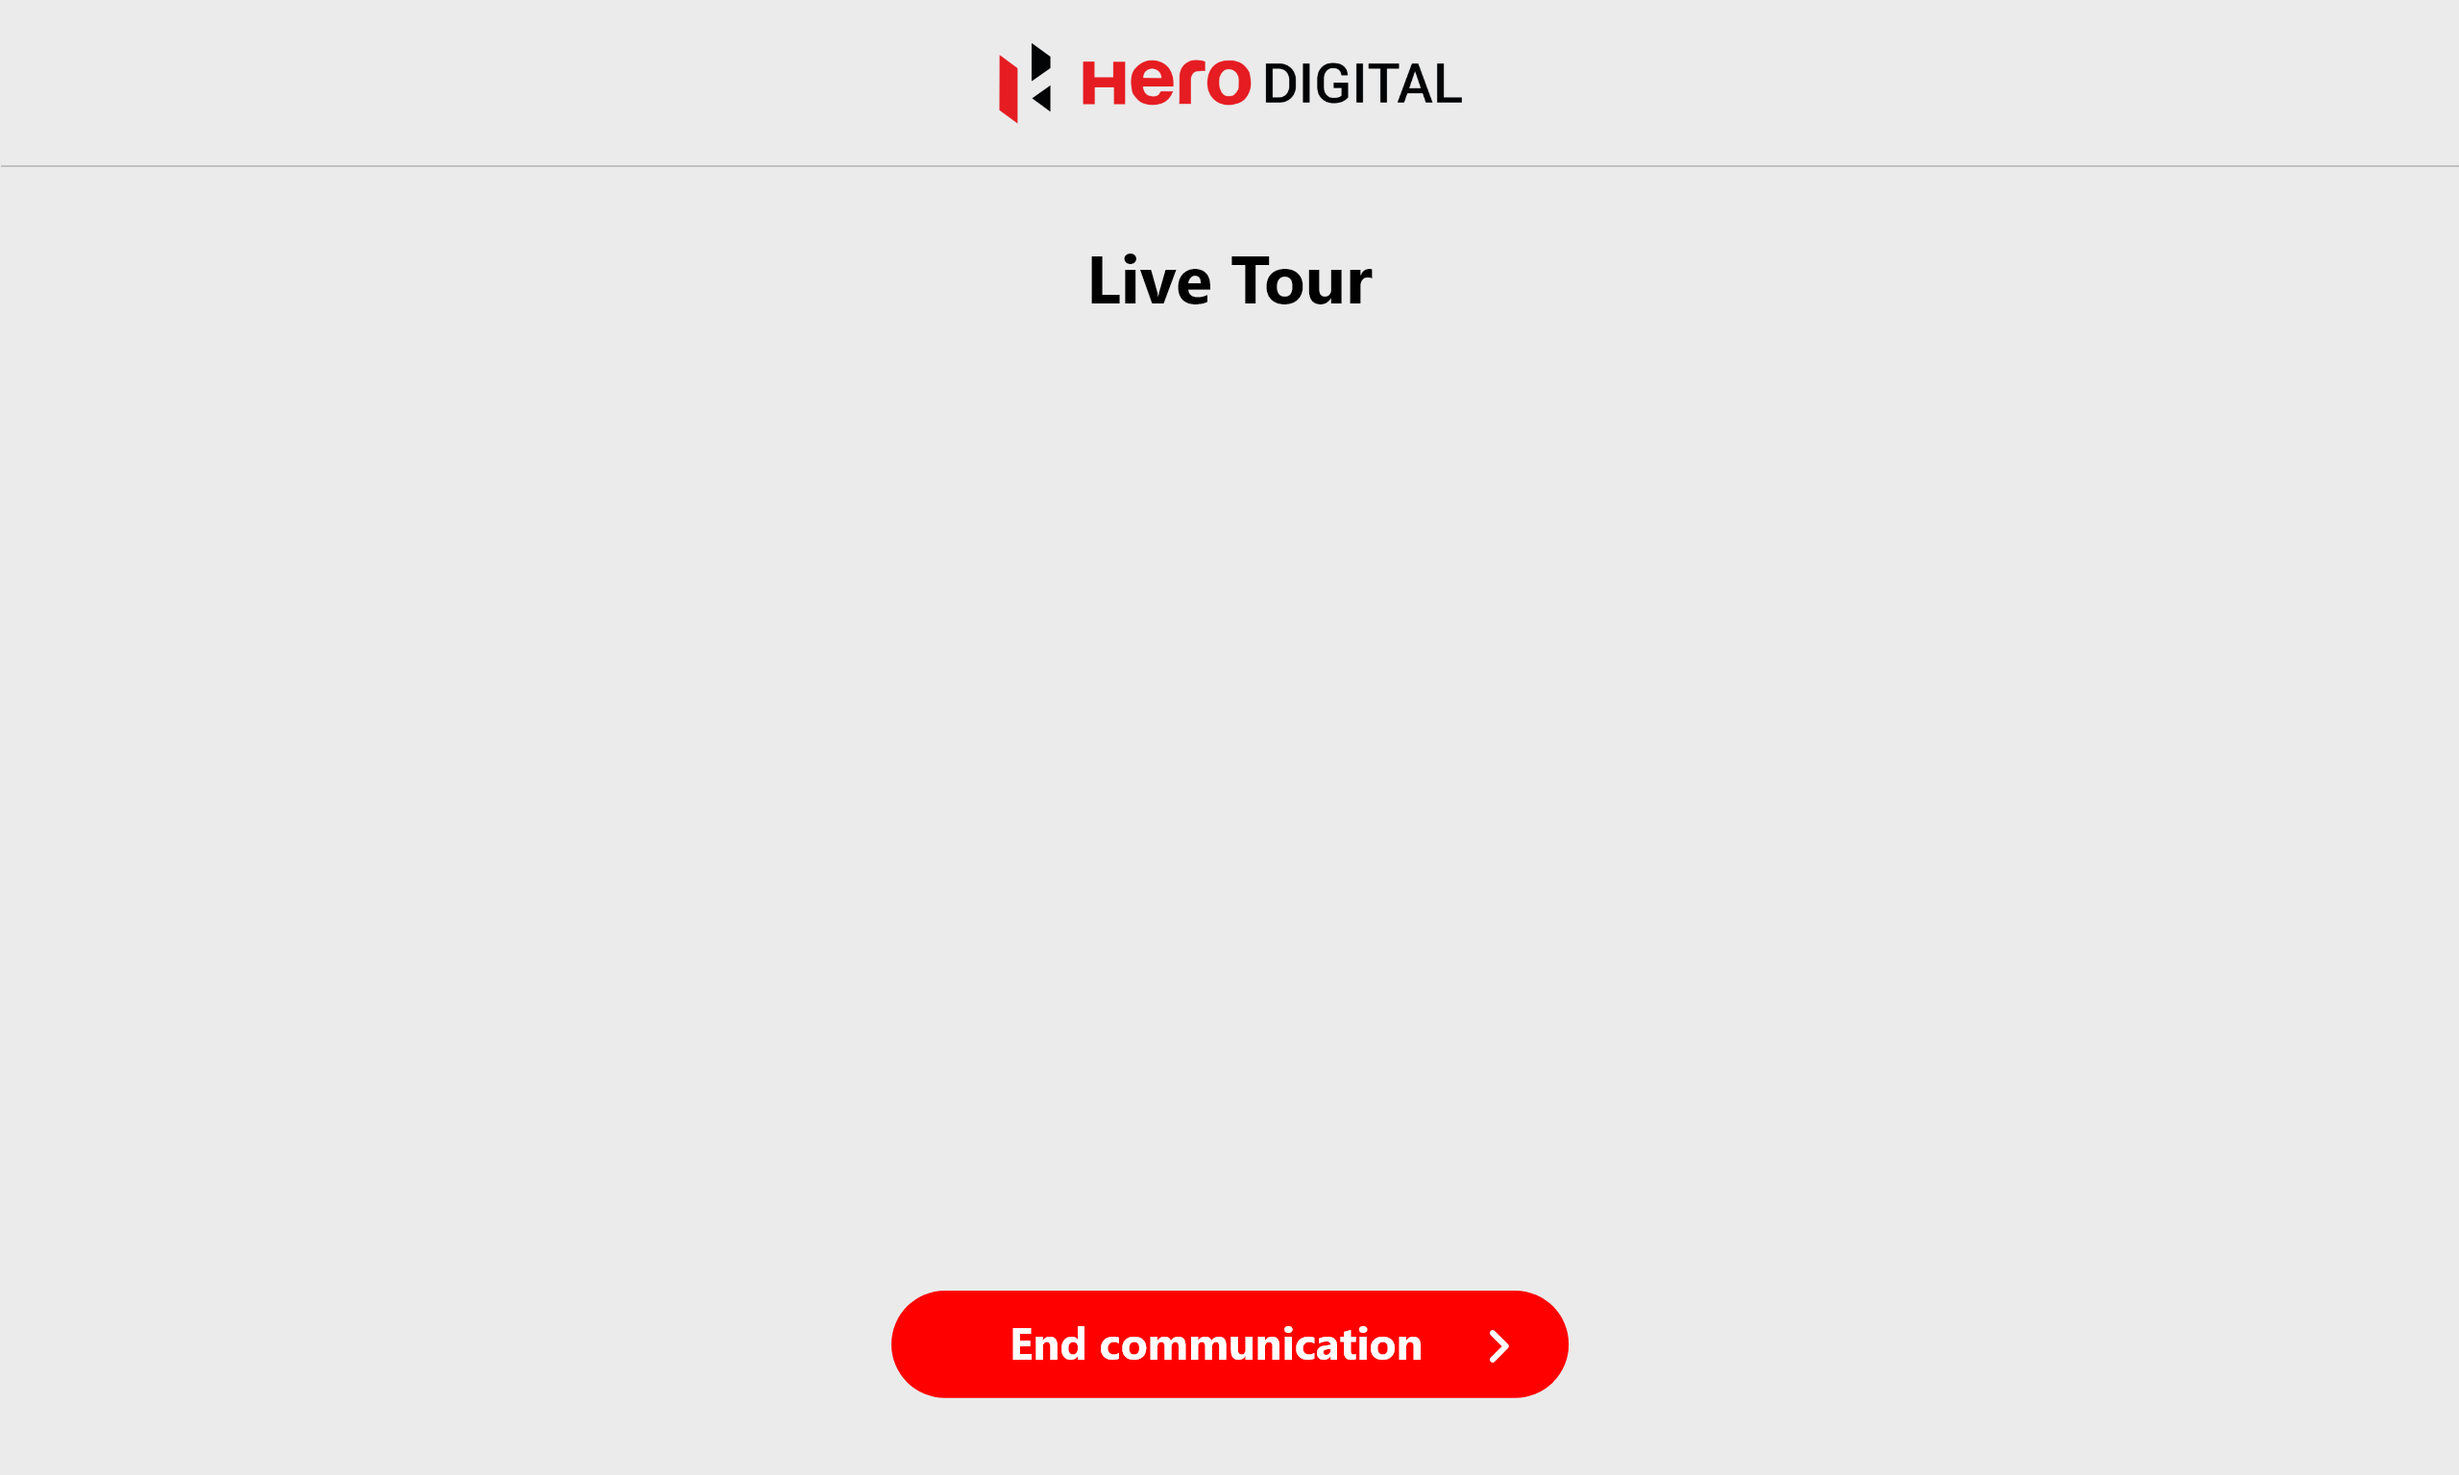
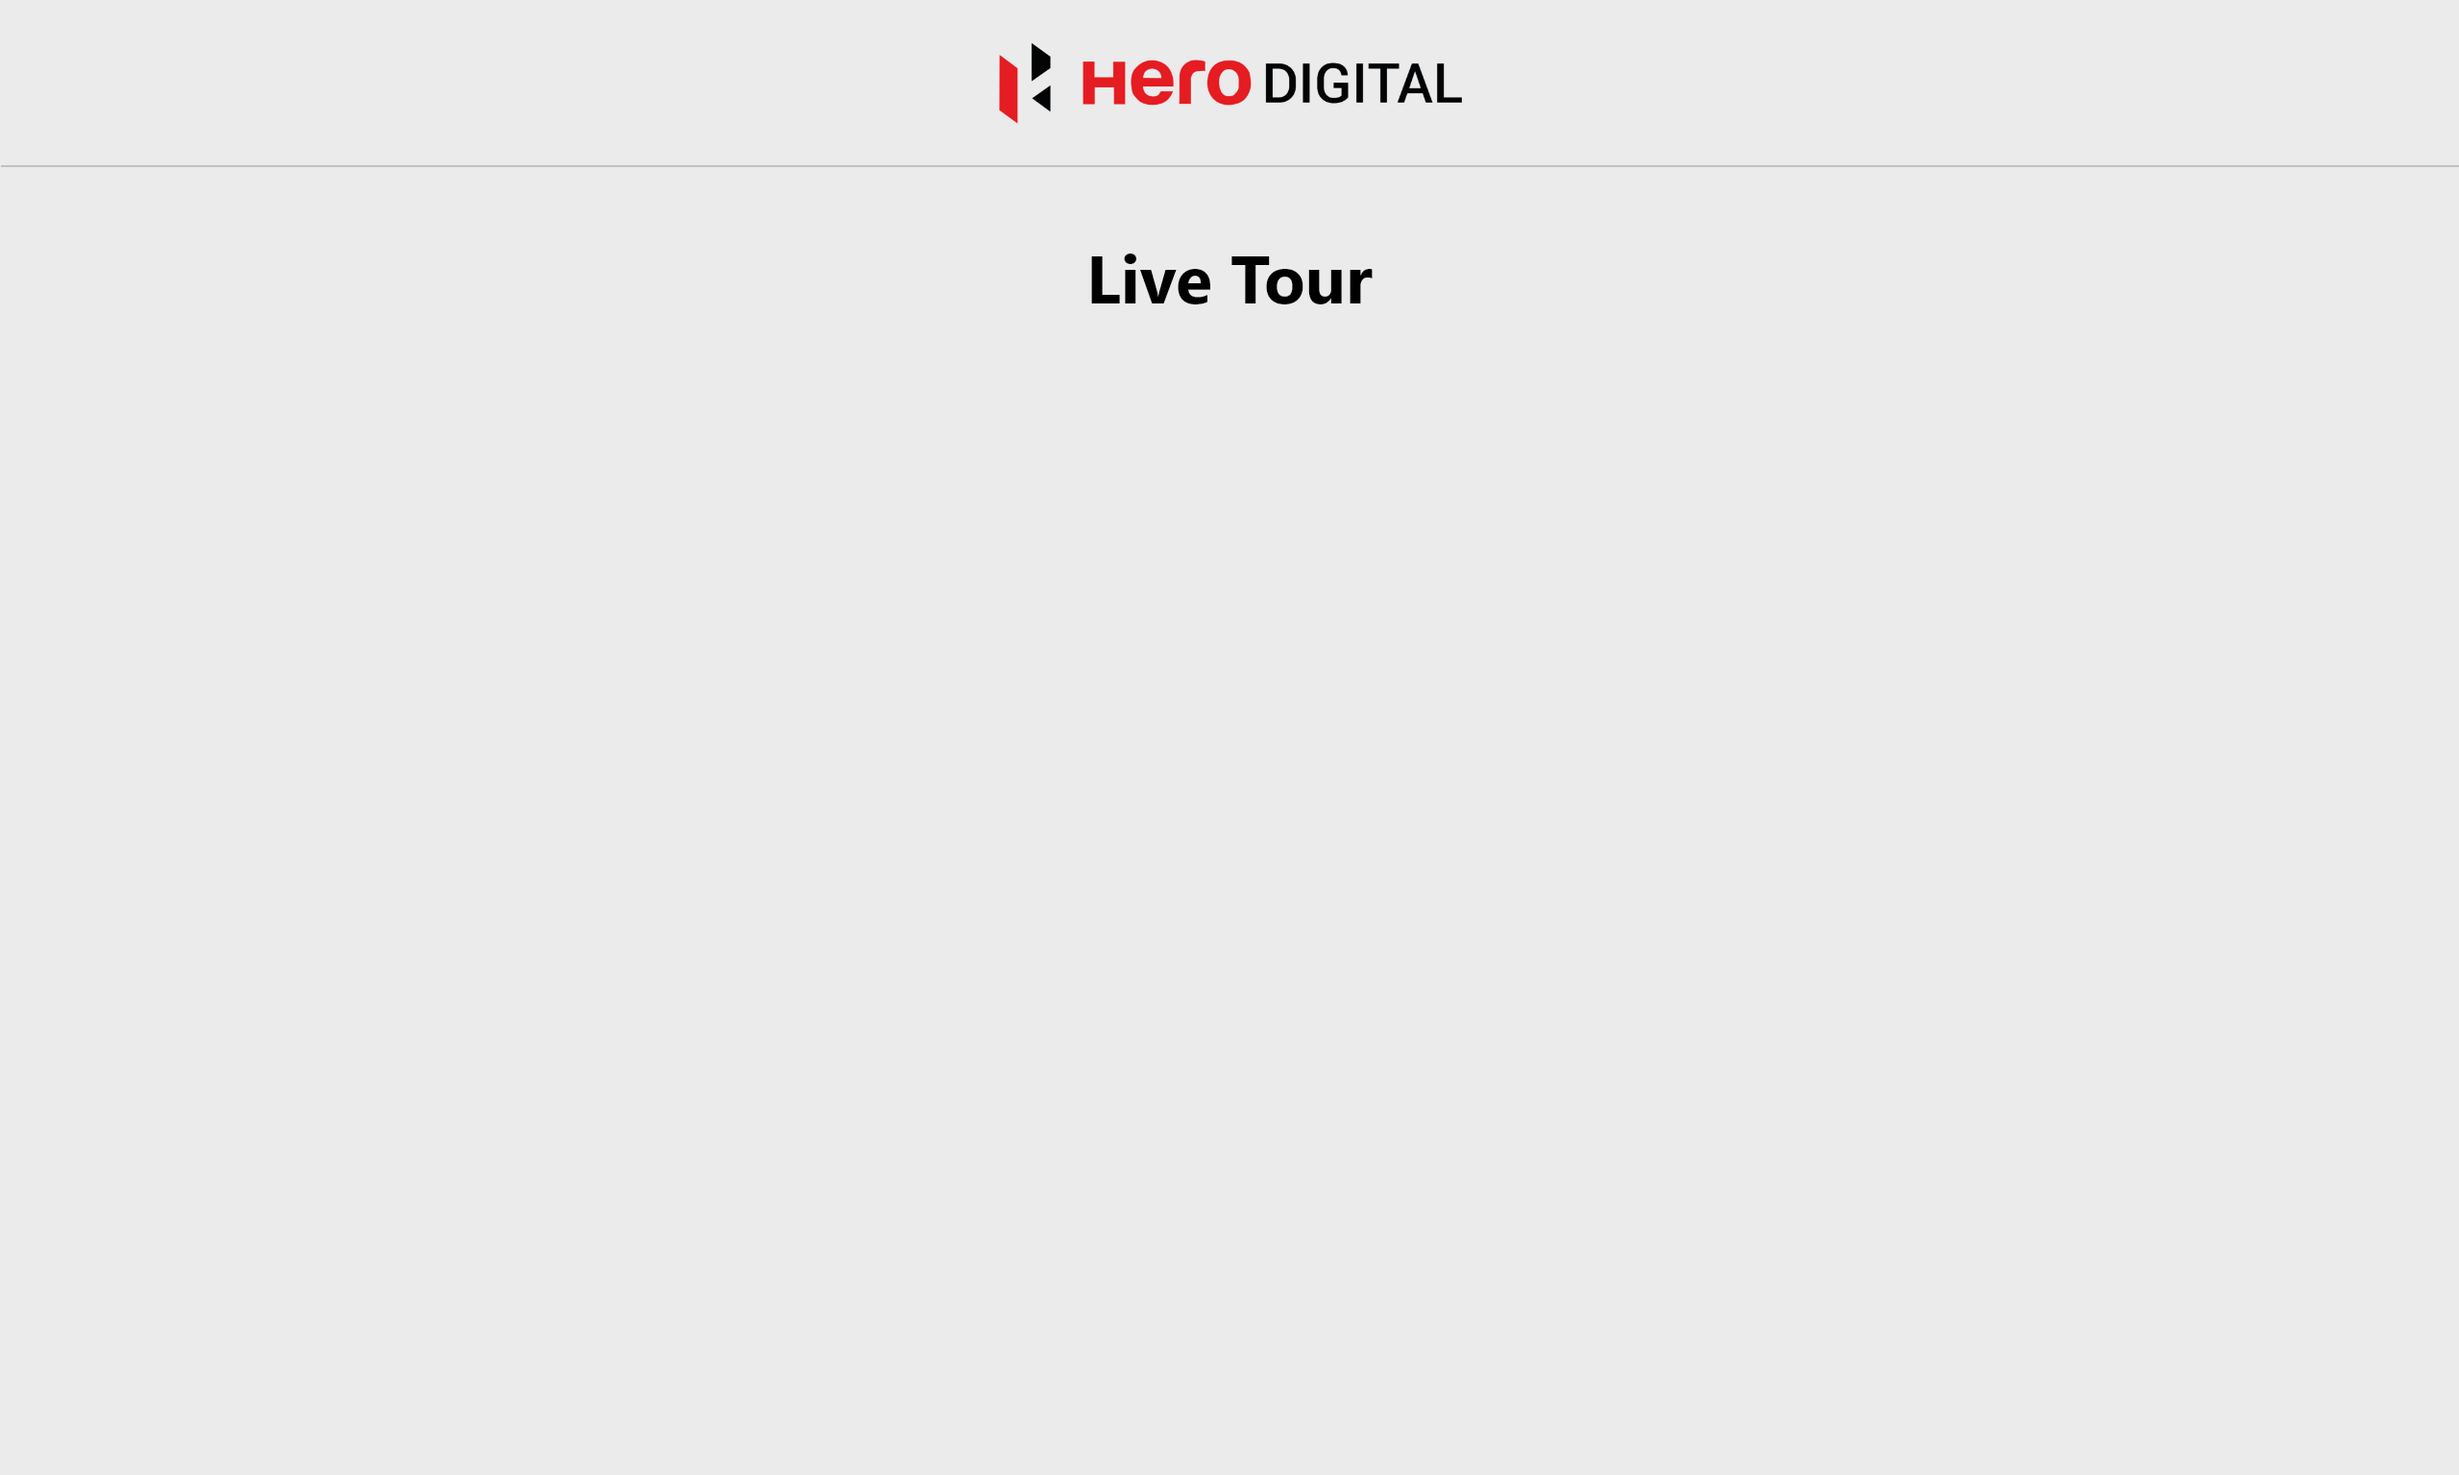
Merge image-pages Disconnect when window unloads Terminate call button floats bellow video frame

Changed region(s): [[0.3438, 0.875, 0.6562, 0.9688]]

diff --git a/src/components/LiveTourPage/LiveTourUserPage.jsx b/src/components/LiveTourPage/LiveTourUserPage.jsx
@@ -2,33 +2,38 @@
 import React, { Component } from 'react';
 import { Link } from 'react-router-dom';
 import { connect } from 'twilio-video';
+
 import { attachTracks, detachTracks, detachParticipantTracks } from './helpers';
 import { GetTwilioToken } from './twilioToken';
 import IMGPage from '../ImagePages/IMGPage';
 import liveTourTransmisionImageUrl from './images/LiveTourTransmision.png';
 import liveTourHomeImageUrl from './images/LiveTourHome@2x.png';
+import endCommunicationBtnUrl from './images/end_communication_btn.png';
 
 const joinTourButtonStyles = {
   cursor: 'pointer',
   position: 'absolute',
   width: 352.58,
-  left: 464,
+  left: 130,
   height: 55.93,
-  top: 593.98,
+  top: 410,
 };
 const leaveTourButtonStyles = {
   cursor: 'pointer',
   position: 'absolute',
-  width: 352.58,
-  left: 464,
-  height: 55.93,
-  top: 671.98,
+  width: '357px',
+  height: '56px',
+  marginLeft: 'auto',
+  marginRight: 'auto',
+  left: 0,
+  right: 0,
+  backgroundImage: `url(${endCommunicationBtnUrl})`,
 };
 
 const videoTrackStyles = {
   position: 'absolute',
   width: '670px',
-  height: '502px',
+  minHeight: '502px',
   top: '185px',
   left: '335px',
 };
@@ -45,7 +50,13 @@ export default class LiveTourPage extends Component {
   }
 
   componentDidMount = () => {
+    window.onbeforeunload = this.handleOnBeforeUnload;
   }
+
+  handleOnBeforeUnload = (e) => {
+    this.componentWillUnmount();
+    return undefined;
+  };
 
   componentWillUnmount = () => {
     if (this.state.room && this.state.room.state === 'connected') {
@@ -132,6 +143,8 @@ export default class LiveTourPage extends Component {
     const connectOptions = {
       name: this.roomName,
       logLevel: 'debug',
+      audio: true,
+      video: false
     };
     // Join the Room with the token from the server and the
     // LocalParticipant's Tracks.
@@ -145,11 +158,13 @@ export default class LiveTourPage extends Component {
   render() {
     return (
       <IMGPage imgUrl={this.state.imageUrl}>
-        <div ref={this.remoteMedia} className="media-container" style={videoTrackStyles} />
-        <a
-          style={this.state.tourButtonStyles}
-          onClick={this.handleJoinLeaveClick}
-        />
+        <div style={videoTrackStyles}>
+          <div ref={this.remoteMedia} className="media-container"  />
+          <a
+            style={this.state.tourButtonStyles}
+            onClick={this.handleJoinLeaveClick}
+          />
+        </div>
         <Link to="/dashboard-img">
           <span
             style={{

diff --git a/src/components/LiveTourPage/LiveTourPresenterPage.jsx b/src/components/LiveTourPage/LiveTourPresenterPage.jsx
@@ -16,8 +16,14 @@ export default class LiveTourPresenterPage extends Component {
   }
 
     componentDidMount = () => {
+      window.onbeforeunload = this.handleOnBeforeUnload;
     }
 
+    handleOnBeforeUnload = (e) => {
+      this.componentWillUnmount();
+      return undefined;
+    };
+  
     componentWillUnmount = () => {
       if (this.state.room && this.state.room.state === 'connected') {
         this.state.room.disconnect();
@@ -41,6 +47,7 @@ export default class LiveTourPresenterPage extends Component {
         this.state.previewTracks.forEach((track) => {
           console.log(`detach track ${track.name}`);
           track.stop();
+          detachTracks([track]);
         });
       }
       this.setState({ room: undefined, roomJoined: false, previewTracks: undefined });
